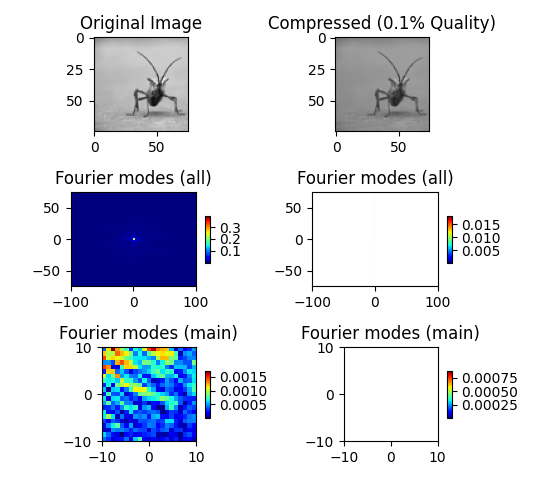
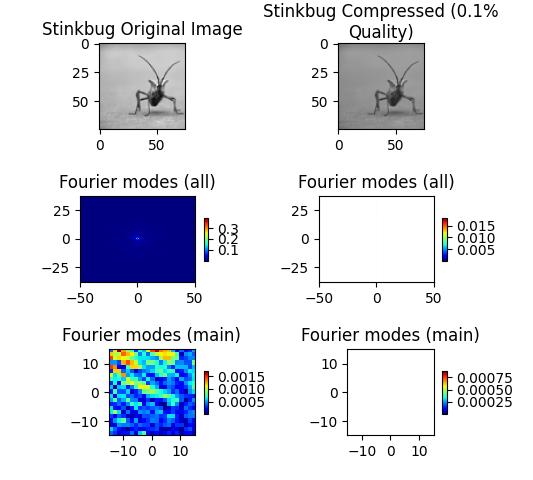
still attempting to fix Fourier modes plot for compressed images

diff --git a/week6/compression_learning.py b/week6/compression_learning.py
@@ -1,6 +1,6 @@
 # Jessica Turner, 7/14/2021
 # Creating an agent that is trained on detailed + compressed images
-# to compare learning time
+# to compare learning time + loss
 
 import tensorflow as tf
 
@@ -12,6 +12,20 @@ import numpy as np  # will use for FFT
 import matplotlib.pyplot as plt  # to map function approximation as it learns
 from PIL import Image  # Python Imaging Library
 import os  # to access image files + save plots
+from textwrap import wrap  # for long text on plots
+
+
+# ===========================================================================
+# Saving Settings - for plots, loss data - global so local functions can save
+# ===========================================================================
+current_directory = os.getcwd()
+save_results_to = current_directory + '/Output/'
+if not os.path.exists(save_results_to):
+    os.makedirs(save_results_to)
+
+save_plots_to = current_directory + '/Plots/'
+if not os.path.exists(save_plots_to):
+    os.makedirs(save_plots_to)
 
 
 # hidden nodes - provide random starting values + necessary input/output dims (shape)
@@ -32,23 +46,71 @@ def Deep_NN(input_, W, B):
     return tf.add(tf.matmul(A, W[-1]), B[-1])
 
 
-def transform():
-    pass
+def plot_images_and_fft(images_dict, image_size=(128,128), num_rows=3, num_cols=1, fig_aspect=0.5):
+    """
+    Plot images and their fourier transform in the desired layout
+    :param images_dict: key = image title, val = PIL Images to transform
+    :param num_rows:   usually 3 - to plot the image, all fft modes and select modes for each image
+    :param num_cols:   number of figures per row
+    :param fig_aspect: Ratio to resize figs
+    :return: None (Just plot all the figures and save the FFT values)
+    """
+    # image subplot script from
+    # https://www.delftstack.com/howto/matplotlib/how-to-display-multiple-images-in-one-figure-correctly-in-matplotlib/
+
+    image_compare_fig, image_compare_axes = plt.subplots(nrows=num_rows, ncols=num_cols,
+                                                         figsize=plt.figaspect(fig_aspect))
+
+    # plot image and FFT for each image
+    for ind, title in enumerate(images_dict):
+        image_compare_axes.ravel()[ind].imshow(images_dict[title], plt.cm.gray)
+        image_compare_axes.ravel()[ind].set_title('\n'.join(wrap(title, image_size[1])), loc='center', wrap=True)
+        image_compare_axes.ravel()[ind].set_axis_on()
+
+        fft_all_modes_plot_placement = ind + num_cols
+        fft_select_modes_plot_placement = ind + num_cols + num_cols
+
+        # from function_approx_img_FFT.py
+        # representing the image as a 2D function in [0,1]x[0,1]
+        x1_grid = np.linspace(0, 1, np.min(image_size))
+        x2_grid = np.linspace(0, 1, np.min(image_size))
+        X1_grid, X2_grid = np.meshgrid(x1_grid, x2_grid)
+        f_grid = np.asarray(images_dict[title], dtype=np.float32)
+
+        f_grid = f_grid / np.max(f_grid) * 2. - 1
+
+        # ======================================
+        #   FFT 2D and display
+        # ======================================
+        F = np.fft.fft2(f_grid) / (image_size[0] * image_size[1] * fig_aspect)  # np.fft.fft2(f_grid) / (128 * 128 / 2)
+        F = np.fft.fftshift(F)
+        P_ref = np.abs(F)
+        # use negative values for map space so we can see symmetry across x-y axis
+        img = image_compare_axes.ravel()[fft_all_modes_plot_placement].imshow(
+            P_ref, extent=[-image_size[0] // 2, image_size[0] // 2, -image_size[1] // 2, image_size[1] // 2], cmap="jet")
+        image_compare_fig.colorbar(
+            img, shrink=0.5, aspect=10, ax=image_compare_axes.ravel()[fft_all_modes_plot_placement])
+        image_compare_axes.ravel()[fft_all_modes_plot_placement].set_title("Fourier modes (all)")
+
+        # only show the first few modes
+        img = image_compare_axes.ravel()[fft_select_modes_plot_placement].imshow(P_ref[54:75, 54:75],
+                                                                                 extent=[-15, 15, -15, 15], cmap="jet")
+        image_compare_fig.colorbar(img, shrink=0.5, aspect=10,
+                                   ax=image_compare_axes.ravel()[fft_select_modes_plot_placement])
+        image_compare_axes.ravel()[fft_select_modes_plot_placement].set_title("Fourier modes (main)")
+
+        # store fft data
+        np.savetxt(save_results_to + '_' + title + '_Fourier_Modes_All.csv',
+                   P_ref.reshape(P_ref.shape[0], -1), fmt='%e')
+        np.savetxt(save_results_to + '_' + title + '_Select_Fourier_Modes.csv',
+                   P_ref[54:75, 54:75].reshape(P_ref[54:75, 54:75].shape[0], -1), fmt='%e')
+
+    plt.tight_layout(pad=1.5)
+    plt.savefig(save_plots_to + picture_name[0:exclude_extension] + '_targets.png')
+    plt.show()
 
 
 if __name__ == '__main__':
-
-    # ======================================
-    # Saving Settings - for plots, loss data
-    # ======================================
-    current_directory = os.getcwd()
-    save_results_to = current_directory + '/Output/'
-    if not os.path.exists(save_results_to):
-        os.makedirs(save_results_to)
-
-    save_plots_to = current_directory + '/Plots/'
-    if not os.path.exists(save_plots_to):
-        os.makedirs(save_plots_to)
 
     # ===========================
     # Set up network architecture
@@ -66,7 +128,7 @@ if __name__ == '__main__':
     B = [initialize_params([net_conn[i], 1]) for i in range(len(net_conn))]
 
     # ================================================================================================
-    # Get input data - original picture -> compressed version with desired quality / compression ratio
+    # Transform original picture -> compressed version with desired quality / compression ratio
     # ================================================================================================
     picture_name = 'Stinkbug.png'  # input('Enter the name of the picture file: ')
     picture_path = os.path.join(current_directory, picture_name)
@@ -77,71 +139,26 @@ if __name__ == '__main__':
     original_image.save('compressed_{}.png'.format(picture_name[0:exclude_extension]), quality=pic_quality)
     original_image = original_image.convert('L')  # 'L' for gray scale mode
     H, W = original_image.size
-    newsize = (H // 5, W // 5)  # (H // 5, W // 5)
+    newsize = (H // 5, W // 5)  # so figures can fit on single plot easier
     resized_og_image = original_image.resize(newsize)  # resize and crop
     resized_og_image = resized_og_image.crop((0, 0, np.min(newsize), np.min(newsize)))
-    resized_og_image = resized_og_image.convert('L')
+    resized_og_image = resized_og_image.convert('L')  # for some reason it wouldn't work unless
 
     compressed_image = Image.open('compressed_{}.png'.format(picture_name[0:exclude_extension]))
     resized_compressed = compressed_image.resize(newsize)
     resized_compressed = resized_compressed.crop((0, 0, np.min(newsize), np.min(newsize)))
 
-    # test if you can compress a png -> jpg or keep png
+    # =========================================================================
     # see difference in detail from pre-compressed to compressed through plots
-    num_rows = 3  # 1st row = image + compressed version, 2nd row = all fourier modes for each, 3rd row = select modes
-    num_cols = 2  # images per row
-    resize_figaspect = 0.9
-    image_compare_fig, image_compare_axes = plt.subplots(nrows=num_rows, ncols=num_cols,
-                                                         figsize=plt.figaspect(resize_figaspect))
-    images_dict = {'Original Image': resized_og_image,
-                   'Compressed ({}% Quality)'.format(pic_quality): resized_compressed}
+    # =========================================================================
+    n_rows = 3  # 1st row = image + compressed version, 2nd row = all fourier modes for each, 3rd row = select modes
+    n_cols = 2  # images per row
+    resize_figaspect = 0.9  # ratio compared to original fig size
 
-    # image subplot script from
-    # https://www.delftstack.com/howto/matplotlib/how-to-display-multiple-images-in-one-figure-correctly-in-matplotlib/
-    for ind, title in enumerate(images_dict):
-        image_compare_axes.ravel()[ind].imshow(images_dict[title], plt.cm.gray)
-        image_compare_axes.ravel()[ind].set_title(title)
-        image_compare_axes.ravel()[ind].set_axis_on()
+    # store the images with the formatted title
+    images = {picture_name[0:exclude_extension] + ' Original Image': resized_og_image,
+              picture_name[0:exclude_extension] + ' Compressed ({}% Quality)'.format(pic_quality): resized_compressed}
 
-        fft_all_modes_plot_placement = ind + num_cols
-        fft_select_modes_plot_placement = ind + num_cols + num_cols
+    plot_images_and_fft(images_dict=images, image_size=newsize, num_rows=n_rows, num_cols=n_cols, fig_aspect=resize_figaspect)
 
-        # from function_approx_img_FFT.png
-        # representing the image as a 2D function in [0,1]x[0,1]
-        x1_grid = np.linspace(0, 1, np.min(newsize))
-        x2_grid = np.linspace(0, 1, np.min(newsize))
-        X1_grid, X2_grid = np.meshgrid(x1_grid, x2_grid)
-        f_grid = np.asarray(images_dict[title], dtype=np.float32)
-
-        f_grid = f_grid / np.max(f_grid) * 2. - 1
-
-        # ======================================
-        #   FFT 2D and display
-        # ======================================
-        F = np.fft.fft2(f_grid) / (newsize[0] * newsize[1] * resize_figaspect)  # np.fft.fft2(f_grid) / (128 * 128 / 2)
-        F = np.fft.fftshift(F)
-        P_ref = np.abs(F)
-        # use negative values for map space so we can see symmetry across x-y axis
-        img = image_compare_axes.ravel()[fft_all_modes_plot_placement].imshow(P_ref,
-                                                                              extent=[-newsize[0], newsize[0],
-                                                                                      -newsize[1], newsize[1]],
-                                                                              cmap="jet")
-        image_compare_fig.colorbar(img, shrink=0.5,
-                                   aspect=10,
-                                   ax=image_compare_axes.ravel()[fft_all_modes_plot_placement])
-        image_compare_axes.ravel()[fft_all_modes_plot_placement].set_title("Fourier modes (all)")
-        # only show the first few modes
-        img = image_compare_axes.ravel()[fft_select_modes_plot_placement].imshow(P_ref[54:75, 54:75],
-                                                                                 extent=[-10, 10, -10, 10], cmap="jet")
-        image_compare_fig.colorbar(img, shrink=0.5, aspect=10,
-                                   ax=image_compare_axes.ravel()[fft_select_modes_plot_placement])
-        image_compare_axes.ravel()[fft_select_modes_plot_placement].set_title("Fourier modes (main)")
-
-        np.savetxt(save_results_to + title + '_Fourier_Modes_All.csv',
-                   P_ref.reshape(P_ref.shape[0], -1), fmt='%e')
-        np.savetxt(save_results_to + title + '_Select_Fourier_Modes.csv',
-                   P_ref[54:75, 54:75].reshape(P_ref[54:75, 54:75].shape[0], -1), fmt='%e')
-
-    plt.tight_layout()
-    plt.savefig(save_plots_to + picture_name[0:exclude_extension] + '_targets.png')
-    plt.show()
+    # to-do : try training on different compression ratios, compare the approximation's image and fourier transform
